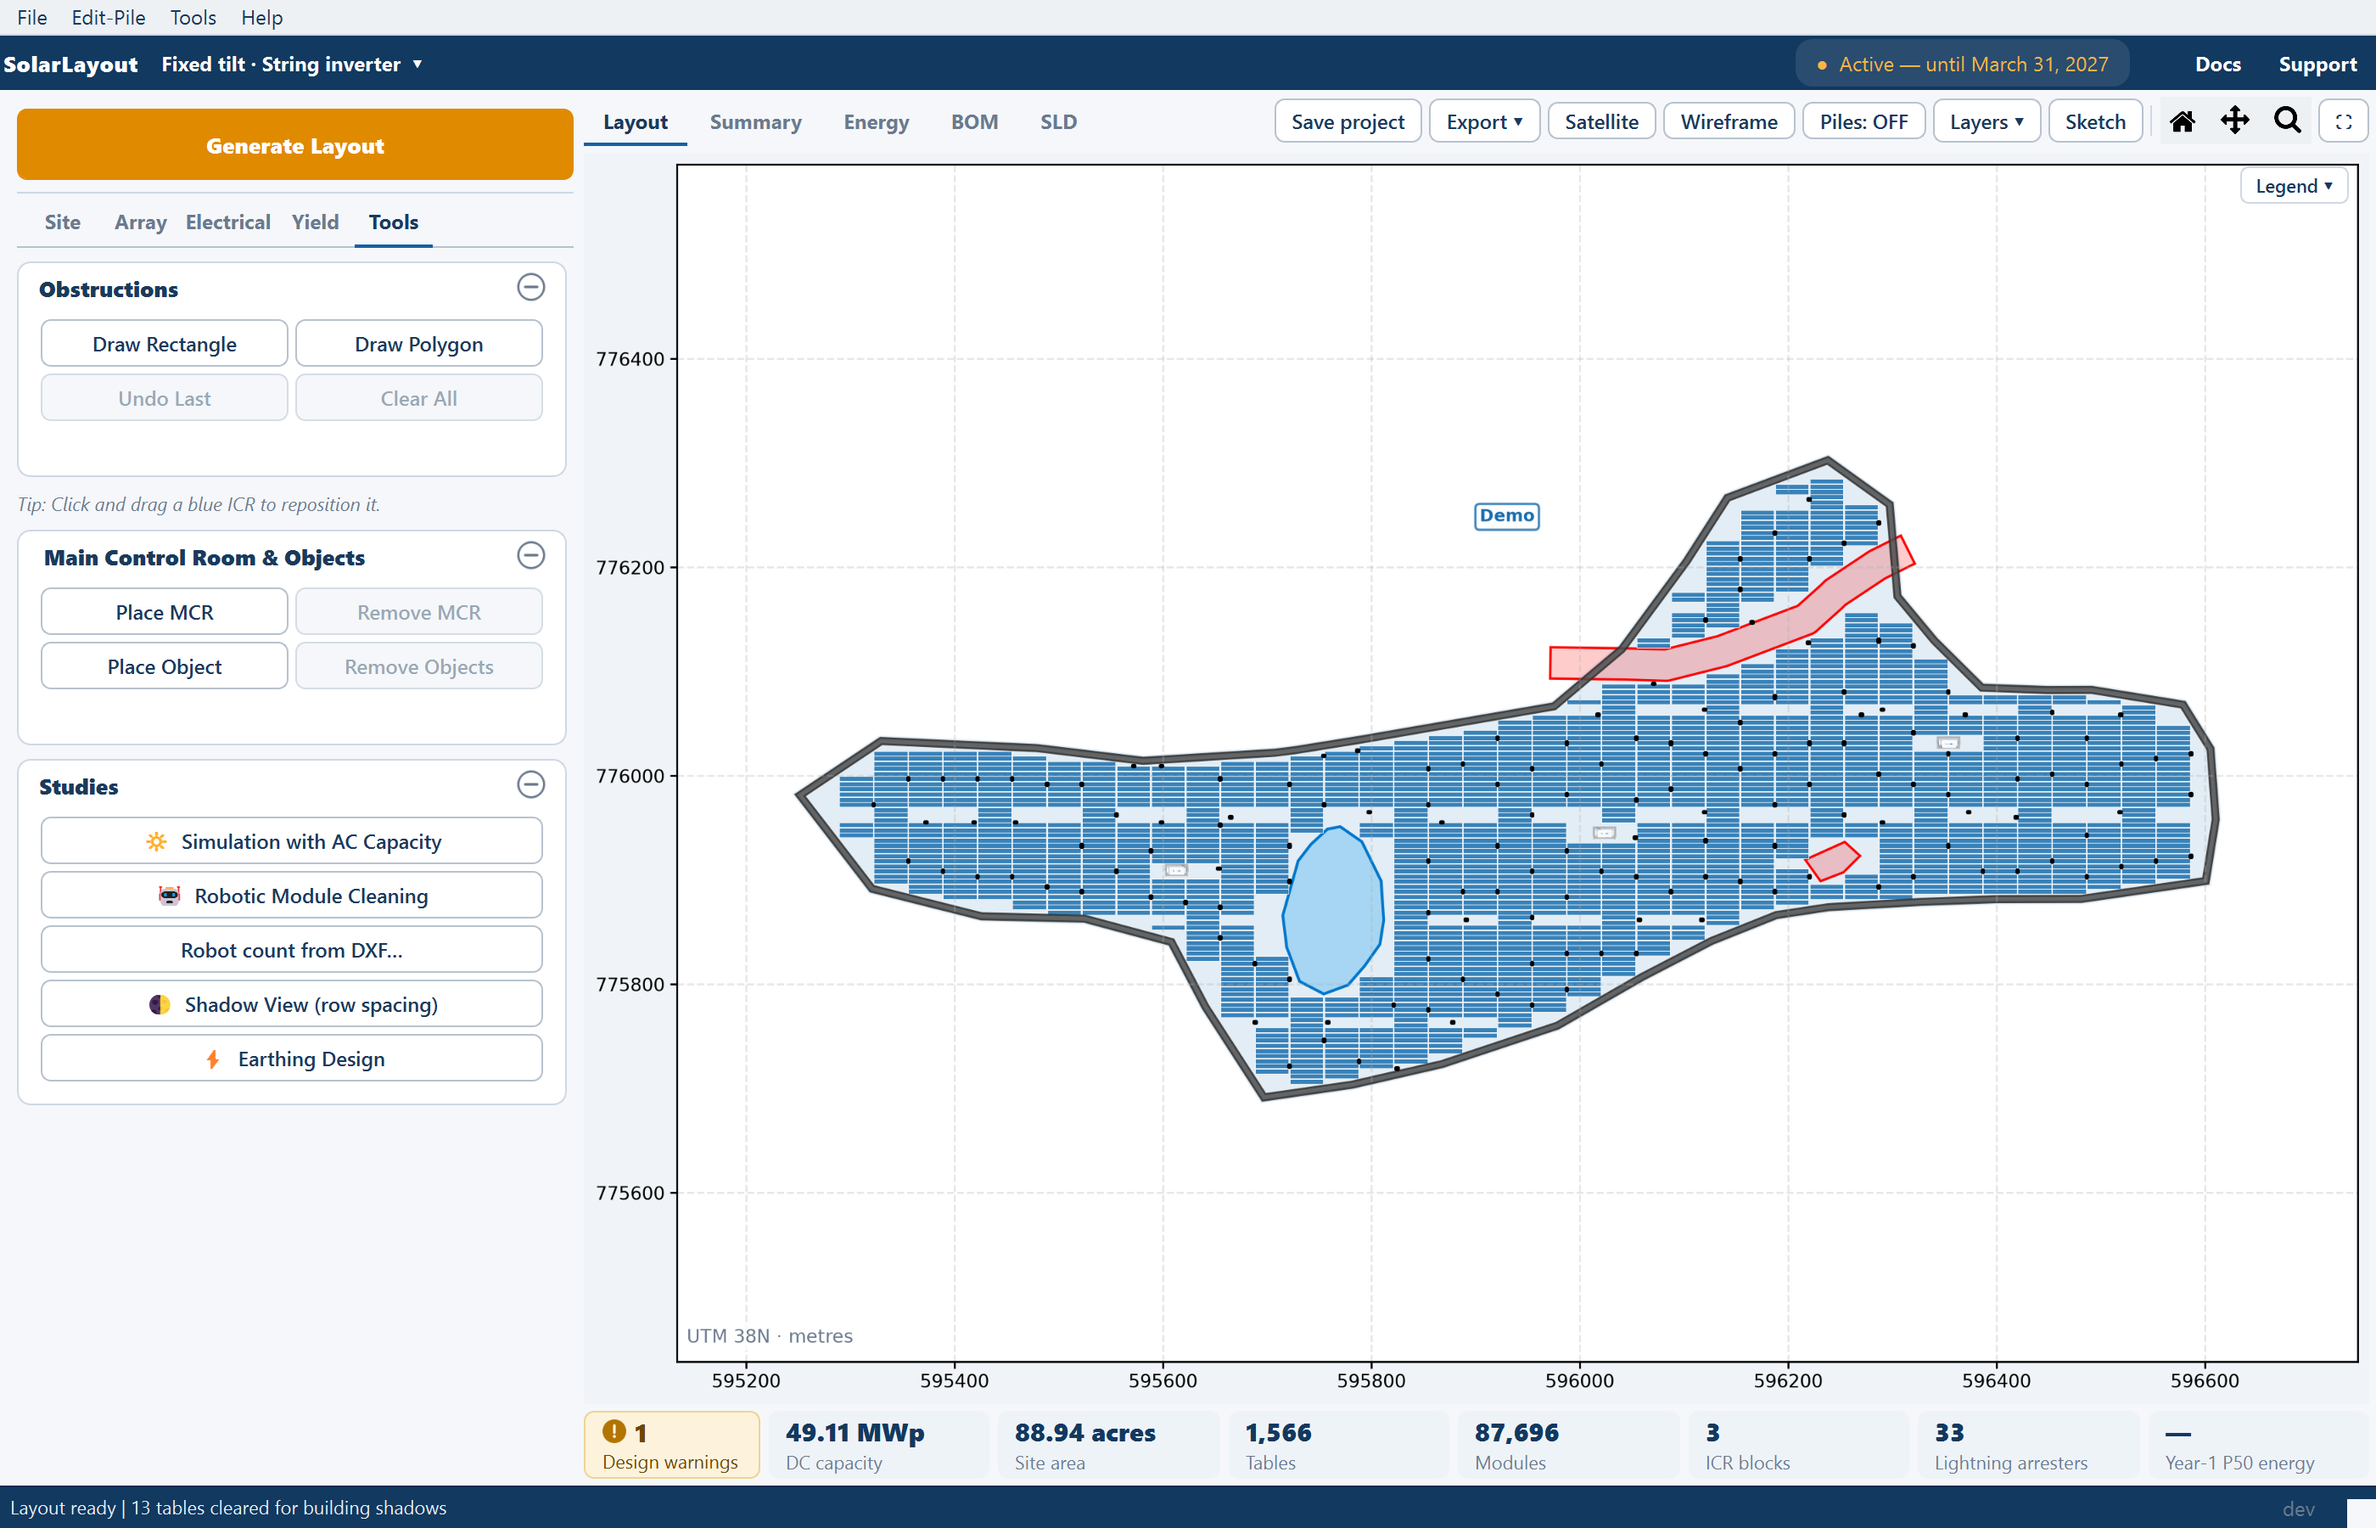
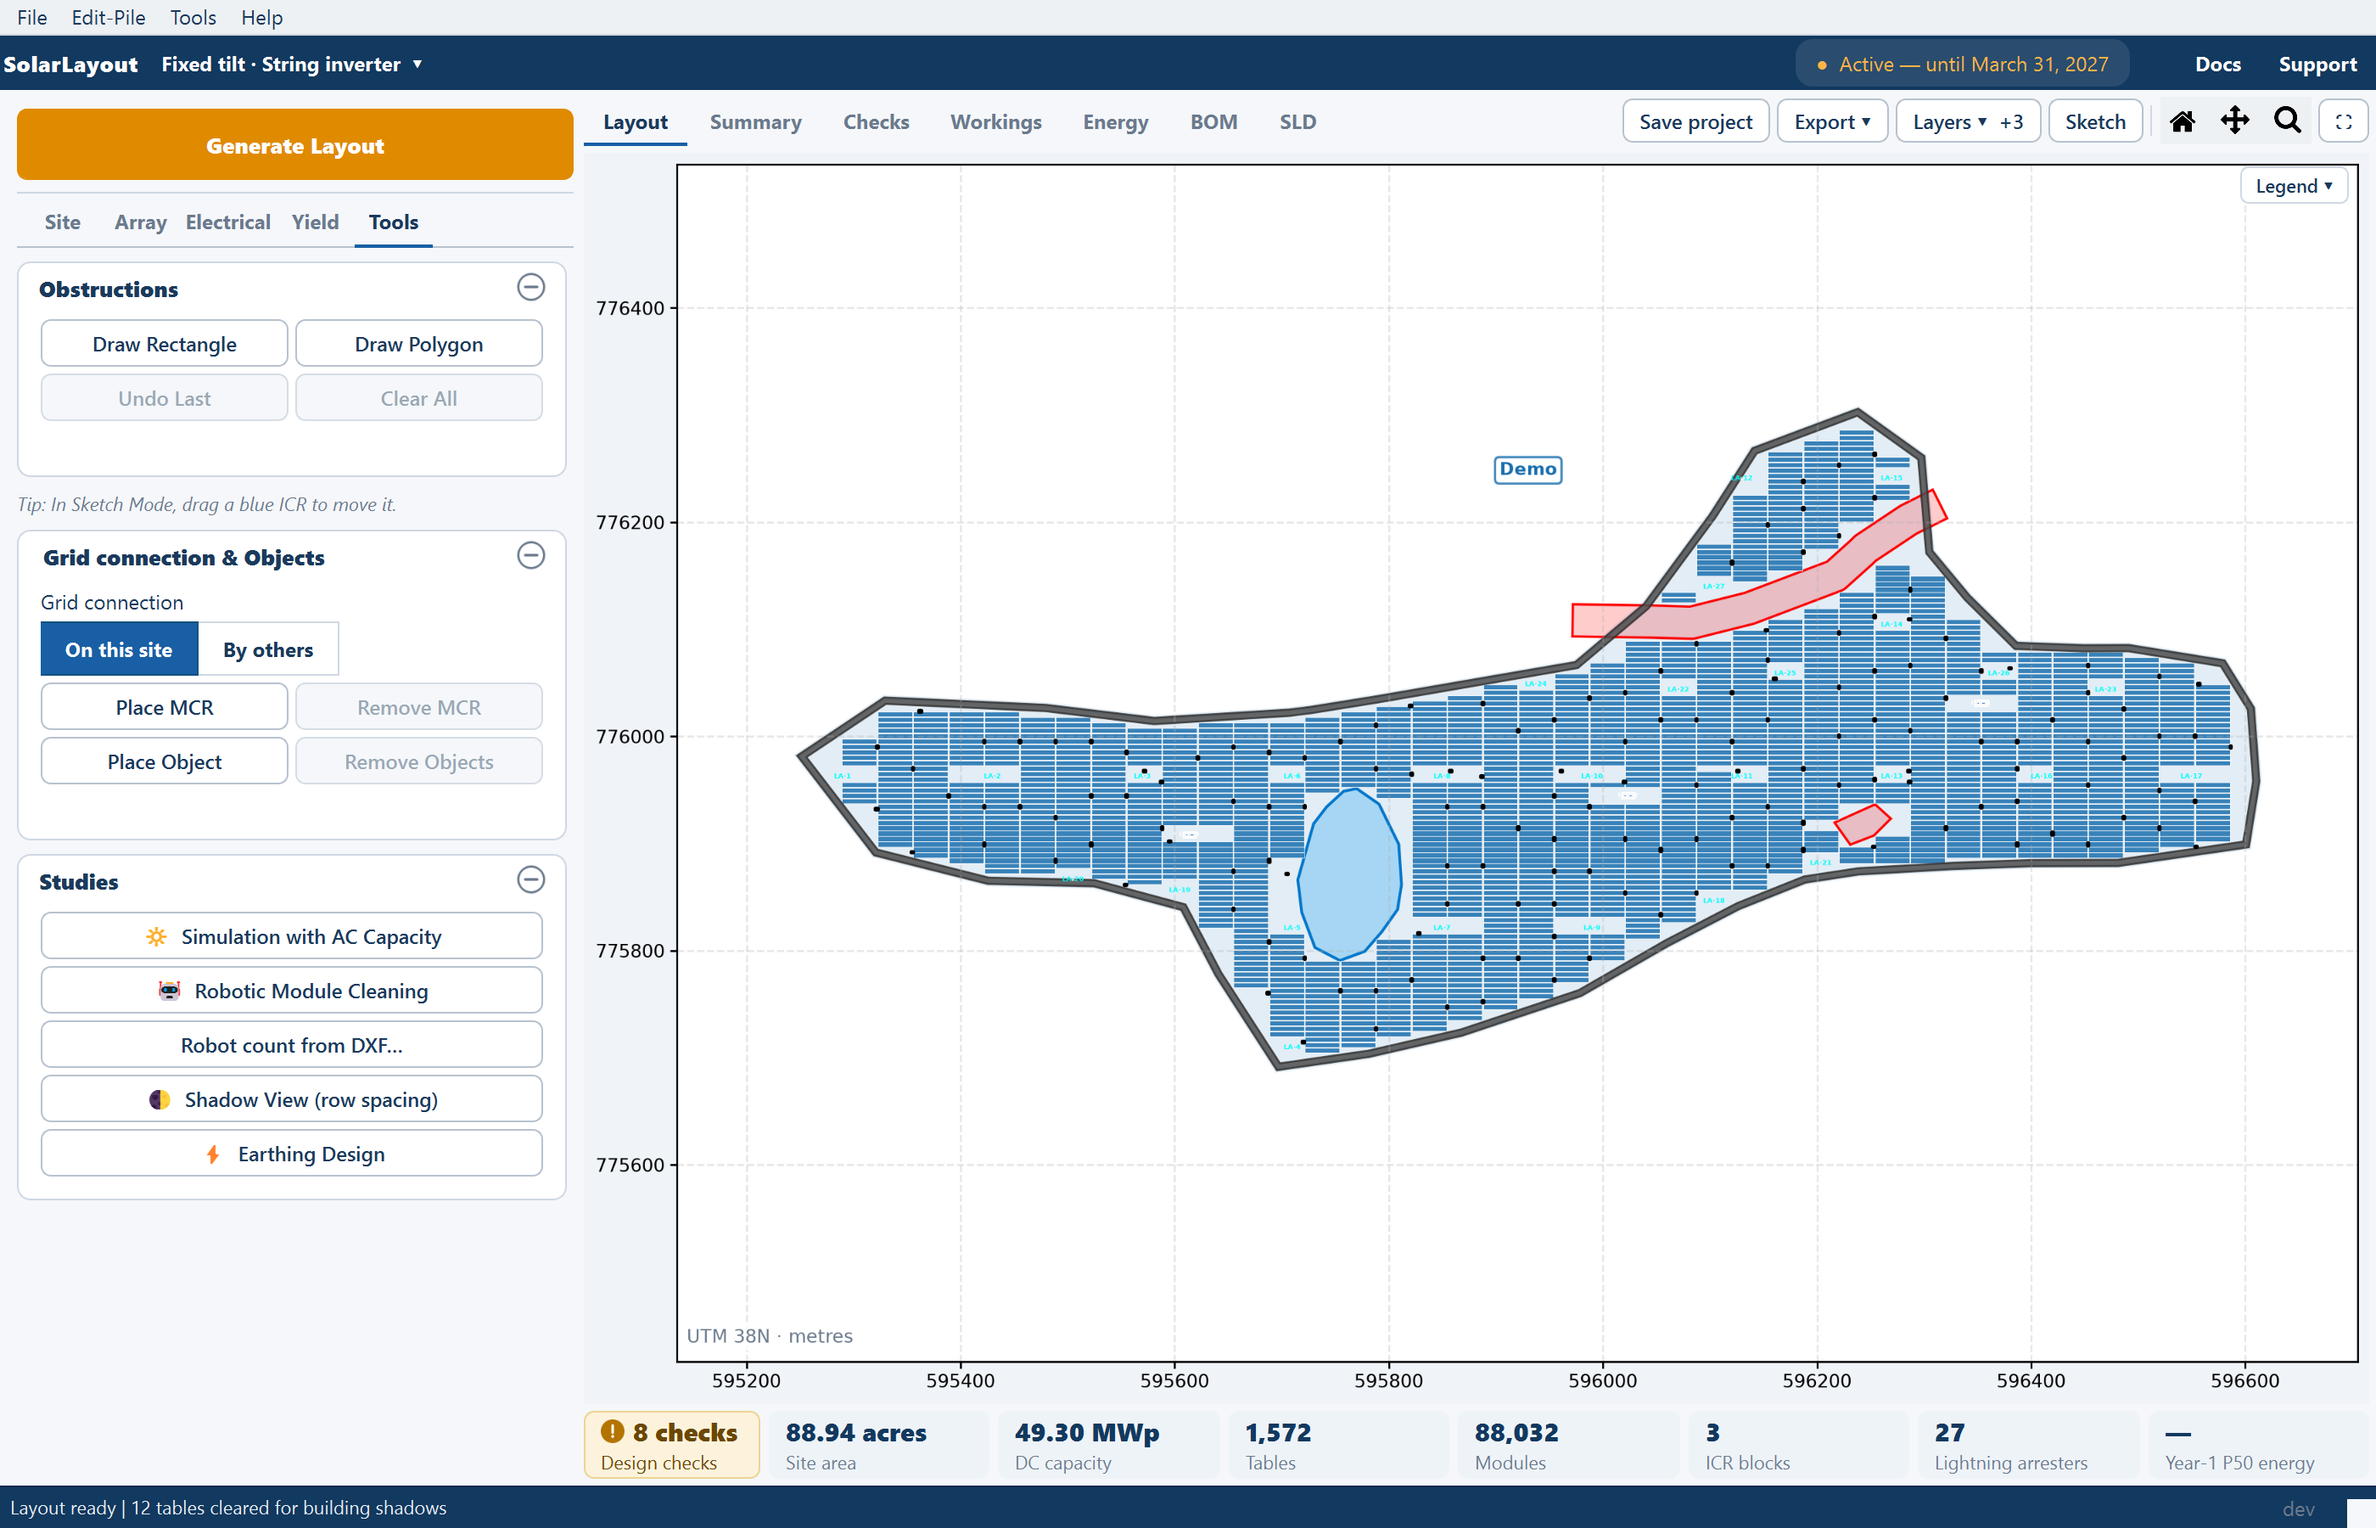
docs: Grid connection frames captured on Windows; the card's frames recaptured under its new name

diff --git a/content/screenshots.ts b/content/screenshots.ts
@@ -17,7 +17,8 @@
  * the bundled sample site, a three-plot variant of it, and a test module and
  * inverter file — see docs/superpowers/plans/2026-09-21-desktop-docs-revamp.md.
  * On 2026-11-05 the frames showing the Site Parameters card were recaptured the
- * same way, and clean-boundary was added on a made-up site; the rest are 2026-09-28.
+ * same way, and clean-boundary was added on a made-up site. Later on 2026-11-05 the
+ * Grid connection frames were captured on Windows at 200 %; the rest are 2026-09-28.
  *
  * SolarLayout Desktop has a single visual theme, so there is exactly ONE
  * image per entry — no light/dark pairs.
@@ -163,7 +164,7 @@ export const SCREENSHOTS: ScreenshotSpec[] = [
     file: "start/tab-tools.png",
     page: "/docs/workspace/main-window",
     title: "The Tools tab after a layout",
-    alt: "The main window on the Tools tab after a layout: the Obstructions card, the ICR tip, Main Control Room & Objects and the five Studies buttons, with the placed MCR's hint.",
+    alt: "The main window on the Tools tab after a layout: the Obstructions card, the ICR tip, Grid connection & Objects with On this site selected, and the five Studies buttons.",
     what: "The window with the Tools tab selected after a layout.",
     state: "Generate, then click Tools.",
     annotations: "",
@@ -1006,11 +1007,66 @@ export const SCREENSHOTS: ScreenshotSpec[] = [
     priority: 2,
   },
   {
+    id: "grid-connection-by-others",
+    file: "layout/grid-connection-by-others.png",
+    page: "/docs/layout/grid-connection",
+    title: "Grid connection, by others",
+    alt: "The Grid connection & Objects card with By others selected, Place handover point, a greyed Remove point, and the line saying a point is optional.",
+    what: "The card only, by others, no point placed.",
+    state: "Tools tab after a layout, grid connection by others.",
+    annotations: "",
+    priority: 1,
+  },
+  {
+    id: "grid-connection-point-placed",
+    file: "layout/grid-connection-point-placed.png",
+    page: "/docs/layout/grid-connection",
+    title: "Grid connection, point placed",
+    alt: "The Grid connection & Objects card with By others selected, Remove point enabled and the line saying the handover point is placed.",
+    what: "The card only, after a handover point is placed.",
+    state: "Grid connection by others, one handover point.",
+    annotations: "",
+    priority: 1,
+  },
+  {
+    id: "handover-point-mv-cables",
+    file: "layout/handover-point-mv-cables.png",
+    page: "/docs/layout/grid-connection",
+    title: "Handover point and its MV cables",
+    alt: "The sample site on the Layout view with the handover point HP-1 just past the fence and the MV cables running to it from each inverter control room.",
+    what: "The whole window, MV cables layer on.",
+    state: "Grid connection by others, one handover point, cables calculated.",
+    annotations: "",
+    priority: 1,
+  },
+  {
+    id: "summary-grid-by-others",
+    file: "views/summary-grid-by-others.png",
+    page: "/docs/layout/grid-connection",
+    title: "Summary, by others, no point",
+    alt: "The Summary view by block with the power transformer, the MV cable and the MV trench reading by others.",
+    what: "The whole window on the Summary view.",
+    state: "Grid connection by others, no point, cables calculated.",
+    annotations: "",
+    priority: 2,
+  },
+  {
+    id: "summary-grid-handover",
+    file: "views/summary-grid-handover.png",
+    page: "/docs/layout/grid-connection",
+    title: "Summary, by others, with a point",
+    alt: "The Summary view by block with the MV cable and MV trench filled in per block and the power transformer reading by others.",
+    what: "The whole window on the Summary view.",
+    state: "Grid connection by others, one handover point, cables calculated.",
+    annotations: "",
+    priority: 2,
+  },
+  {
     id: "mcr-controls",
     file: "layout/mcr-controls.png",
     page: "/docs/layout/site-equipment",
-    title: "Main Control Room & Objects",
-    alt: "The Main Control Room & Objects card with Place MCR, Remove MCR, Place Object and Remove Objects.",
+    title: "Grid connection & Objects",
+    alt: "The Grid connection & Objects card with On this site selected, Place MCR, Remove MCR, Place Object and Remove Objects.",
     what: "The card only, after a layout.",
     state: "Tools tab after a layout.",
     annotations: "",
@@ -1021,7 +1077,7 @@ export const SCREENSHOTS: ScreenshotSpec[] = [
     file: "layout/mcr-placed-regenerate-hint.png",
     page: "/docs/layout/site-equipment",
     title: "After placing the main control room",
-    alt: "The Main Control Room & Objects card with the hint MCR placed. Enable 'Cable Calc' and regenerate layout to route MV cables.",
+    alt: "The Grid connection & Objects card with On this site selected and the line saying the MCR is placed in Demo and how many tables it removed.",
     what: "The card right after the MCR is dropped.",
     state: "Click Place MCR, then click inside the boundary.",
     annotations: "",
@@ -1032,7 +1088,7 @@ export const SCREENSHOTS: ScreenshotSpec[] = [
     file: "layout/mcr-placed-hint.png",
     page: "/docs/layout/site-equipment",
     title: "After regenerating with the MCR",
-    alt: "The Main Control Room & Objects card after regenerating, with Remove MCR enabled.",
+    alt: "The Grid connection & Objects card after regenerating, with Remove MCR enabled and the total MV cable.",
     what: "The card after the next Generate.",
     state: "Generate again with cables on.",
     annotations: "",
